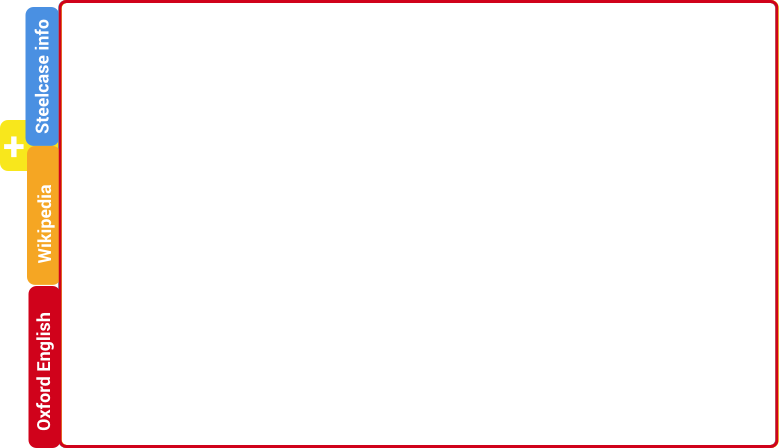
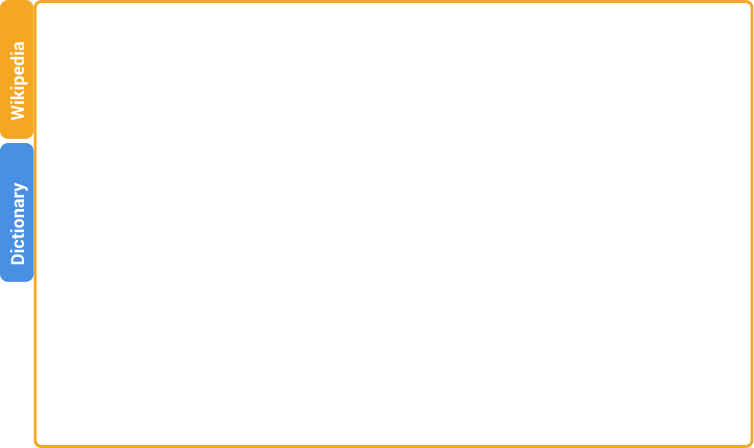
latest changes for presentation!

Changed region(s): [[0.0, 0.0, 1.0, 1.0]]

diff --git a/assets/css/style.css b/assets/css/style.css
@@ -16,10 +16,11 @@ body {
 /* ***************index.html  centers title image*/
 .title-page {
     display: block;
-    margin-left: auto;
-    margin-right: auto;
-    padding: 20px;
-    width: 80%;
+    position: absolute;
+    left: -5px;
+    top: -12px;
+
+
 
 }
 
@@ -27,7 +28,7 @@ body {
 .icon1 {
     height: 25px;
     position: absolute;
-    left: 750px;
+    left: 730px;
     top: 28px;
     opacity: 0.2;
 
@@ -36,10 +37,10 @@ body {
 .icon2 {
     height: 25px;
     position: absolute;
-    left: 747px;
-    top: 430px;
-    opacity: 0.2;
-    display: none;
+    left: 715px;
+    top: 415px;
+    opacity: 0.4;
+
 
 
 }
@@ -116,32 +117,32 @@ button:hover {
     display: block;
     position: absolute;
     top: 0;
-    left: 38px;
-    width: 80px;
-    height: 200px;
+    left: 6px;
+    width: 36px;
+    height: 140px;
     z-index: 999;
-    height: 164px;
     width: 35px;
+
 }
 
 .trigger-dictionary {
-    top: 303px;
+    top: 145px;
     /*border: 1px solid red;*/
 }
 
 .trigger-wikipedia {
-    top: 139px;
+    top: 0px;
     /*border: 1px solid orange;*/
 }
 
-.trigger-add {
+/*    .trigger-add {
     top: 140px;
     width: 50px;
     height: 55px;
     left: 0;
 
     /*border: 1px solid yellow;*/
-}
+
 
 
 .tab1red {
@@ -235,7 +236,7 @@ button:hover {
     position: absolute;
 
     top: 15px;
-    left: 275px;
+    left: 550px;
 
     width: 200px;
     height: 200px;
@@ -276,10 +277,10 @@ button:hover {
     grid-template-rows: 50px 40px 40px 60px 1fr;
 }
 
-.settings-entry-box {
+/*.settings-entry-box {
     grid-column: 2 / 3;
     grid-row: 4 / 5;
-}
+} */
 
 .settings2 {
     position: absolute;

diff --git a/take-photo.html b/take-photo.html
@@ -4,6 +4,7 @@
     <meta charset="UTF-8">
     <title>Designed: Object Detection x Knowledge</title>
     <link rel="stylesheet" href="./assets/css/style.css">
+
 </head>
 
 <body>
@@ -20,10 +21,10 @@
     <div class="tabs">
         <div class="tab-trigger trigger-dictionary"></div>
         <div class="tab-trigger trigger-wikipedia"></div>
-        <a href="add-tab.html">
-            <div class="tab-trigger trigger-add">
-            </div>
-        </a>
+
+        <div class="tab-trigger trigger-add">
+        </div>
+
 
         <div class="tab1red">
             <div class="dictionary-wrapper">
@@ -65,7 +66,7 @@
     </div>
 
     <div class="menu">
-        <a href="settings.html"> <img class="icon1" src="assets/img/gear-icon.png" alt="settings"></a>
+
         <a href="take-photo.html"> <img class="icon2" src="assets/img/camera-icon.png" alt="camera"></a>
     </div>
 

diff --git a/ali-tab-style-index.html b/ali-tab-style-index.html
@@ -12,7 +12,7 @@
     <div class="wrapper">
         <div class="tabs-wrapper">
             <div class="tabs">
-                <button class="tab tab-steelcase">Steelcase</button>
+                <!--<button class="tab tab-steelcase">Steelcase</button>-->
                 <button class="tab tab-wikipedia">Wikipedia</button>
                 <button class="tab tab-dictionary">Dictionary</button>
             </div>
